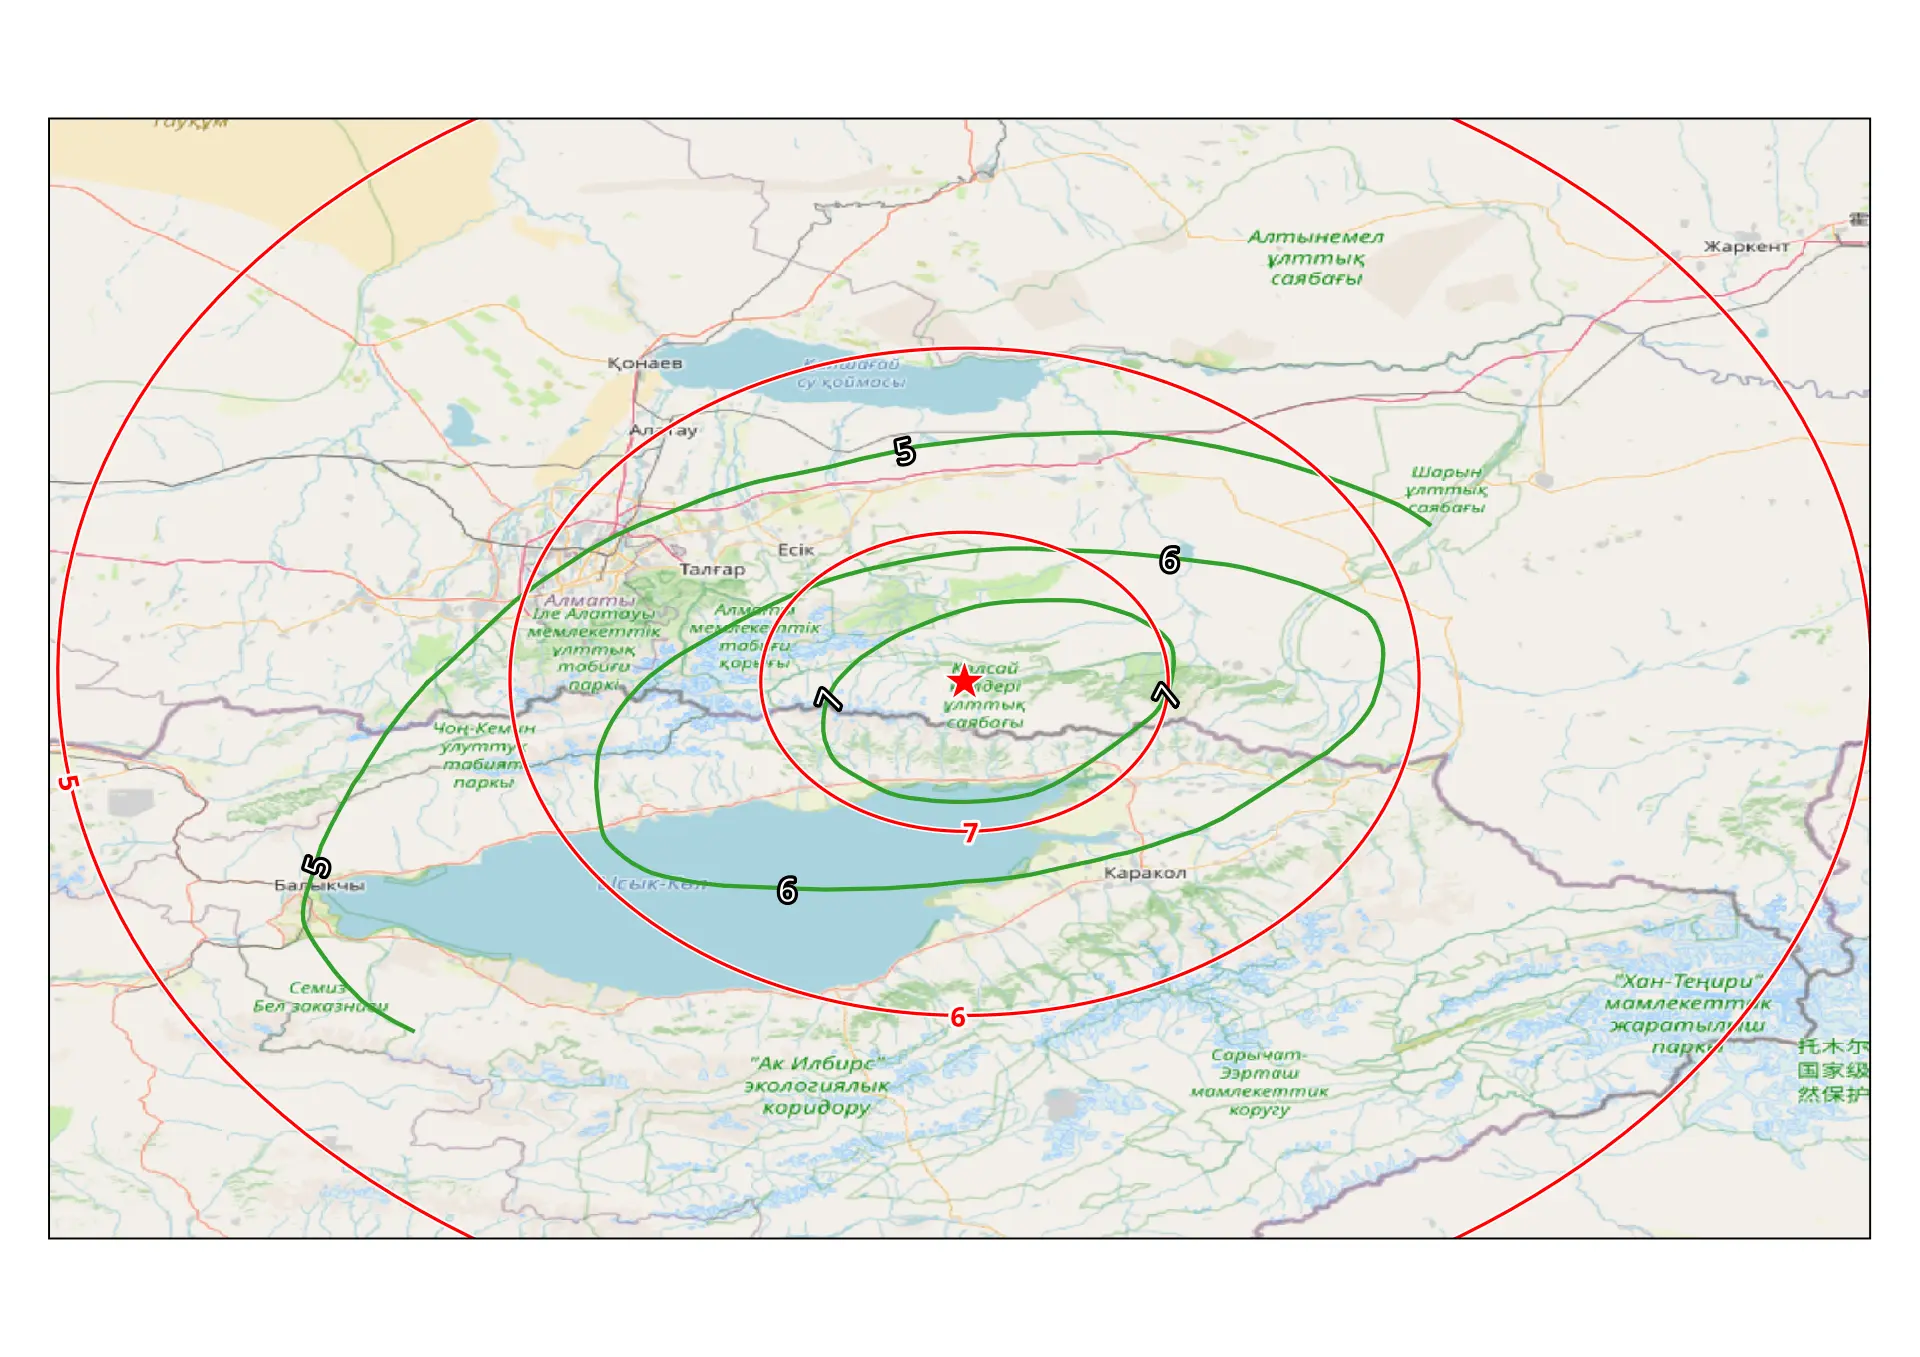
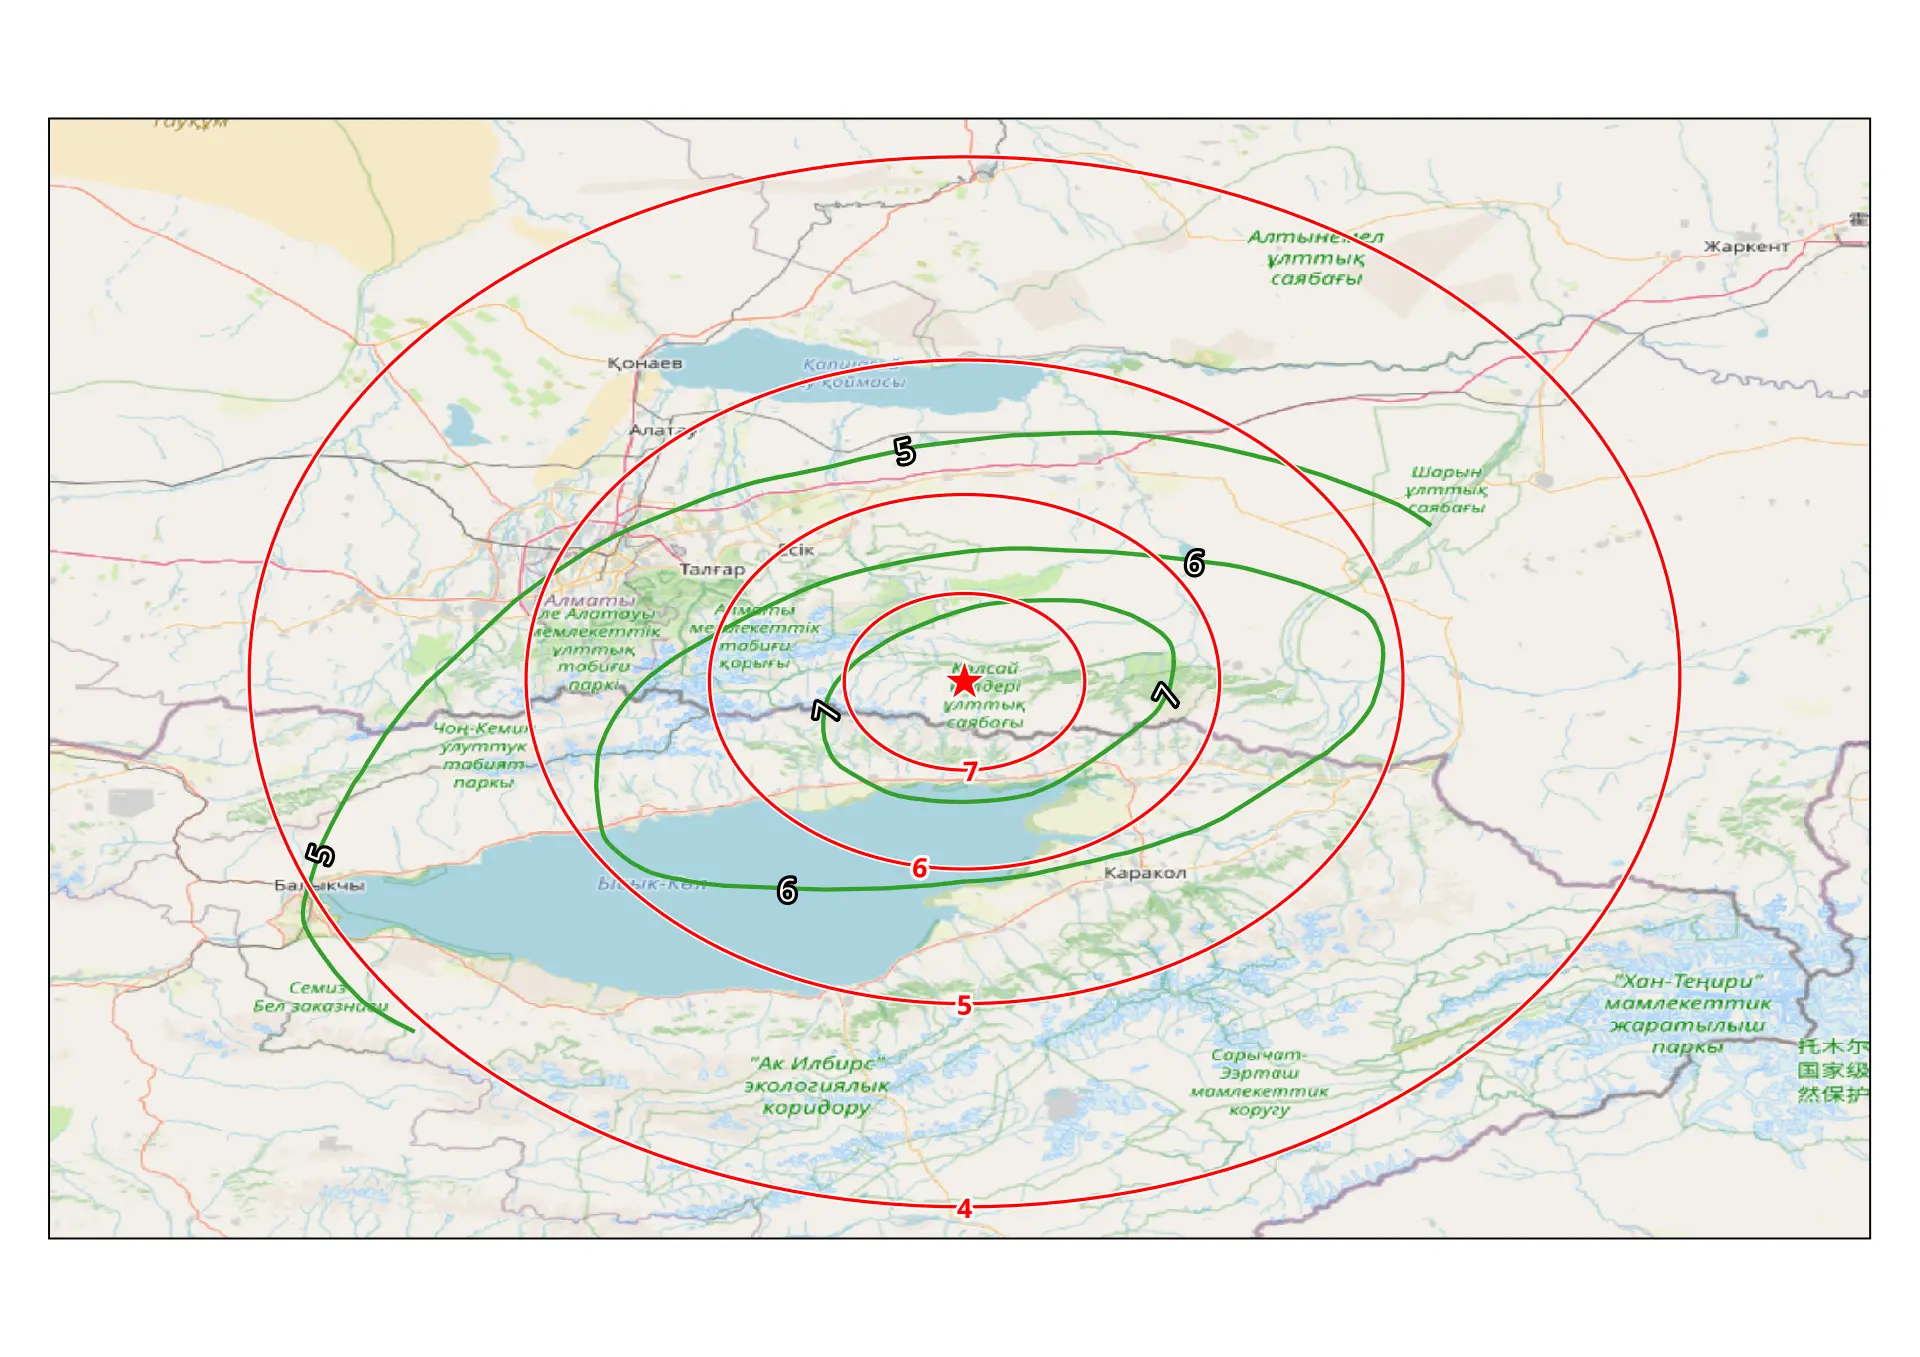
update

diff --git a/index.html b/index.html
@@ -97,12 +97,12 @@ id="r-sqrtleft10fracb-cdot-m---i-cnright2---h2"><math display="block" xmlns="htt
 коэффициент затухания (коэффициент Блэйка) <br></p>
 <p>из статьи “Байсорунское землетрясение 12 ноября 1990 г.” были
 получены <br> координаты эпицентра с карты - долгота 77.91489985, широта
-42.99962764 <br> M магнитуда 6.2 <br> h глубина 30.0 <br> n
+42.99962764 <br> M магнитуда 8 <br> h глубина 30.0 <br> n
 (<math display="inline" xmlns="http://www.w3.org/1998/Math/MathML"><semantics><mi>v</mi><annotation encoding="application/x-tex">v</annotation></semantics></math>)
 коэффициента затухания 5.0 <br></p>
 <p>из книги “Новый каталог сильных землетрясений на территории СССР с
-древнейших времен до 1975 г” были взяты (стр 24)<br> b=1.5, v=3.5, c=3.0
-(А.Н.Нурмагамбетов, А.Сыдыков)<br></p>
+древнейших времен до 1975 г” были взяты (стр 24) (А.Н.Нурмагамбетов,
+А.Сыдыков)<br> b=1.5, n=3.5, c=3.0<br></p>
 <p><img src="isoseismal_sheb.webp" /></p>
 <p><br></p>
 <hr />
